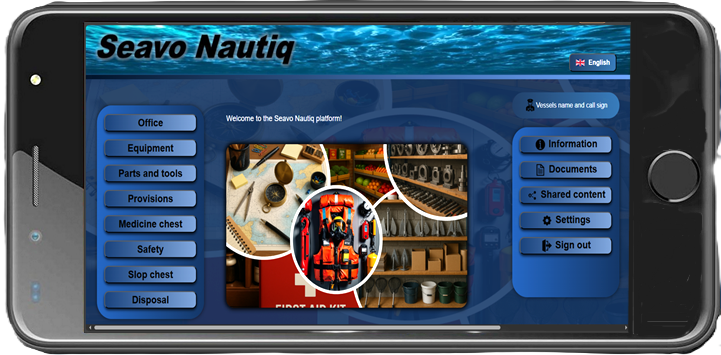
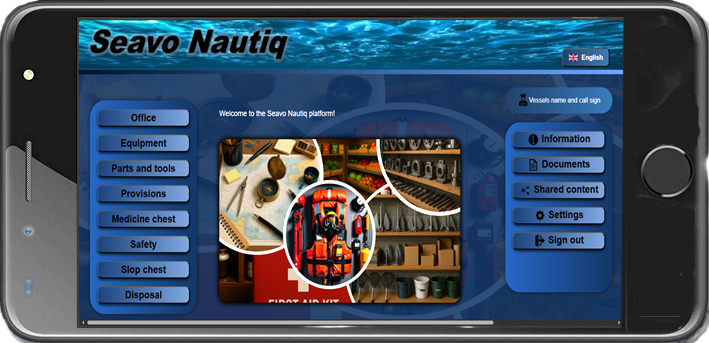
New file, Mobile

diff --git a/Front-index.html b/Front-index.html
@@ -38,6 +38,7 @@
       box-shadow: #000000 0px 0px 10px 3px;
     }
 
+
     #mobilpicture {
       width: 13%;
       height: auto;
@@ -48,18 +49,49 @@
       position: absolute;
     }
 
-    #infobubble {
-      width: 21%;
-      height: auto;
-      margin-top: 90px;
-      margin-left: 46px;
-      position: absolute;
-      
-    }
+    #mobilpicture:hover {
+      transform: scale(1.1);
+      transition: transform 0.3s ease;
+     
+  }
+
+
+
+   .infobubble-wrapper {
+     width: 15%;
+     position: absolute;
+     margin-top: -200px;
+     margin-left: 560px;
+ 
+   }
+
+  .infobubble-img {
+   width: 100%;
+   height:auto;
+   display: block;
+  }
+
+ .toggle-btn {
+  position: absolute;
+  bottom: 8px;
+  right: 6px;
+  background-color: rgba(0, 140, 255, 0.8);
+  color: rgb(255, 255, 255);
+  border: none;
+  padding: 5px 10px;
+  font-size: 14px;
+  border-radius: 8px;
+  cursor: pointer;
+}
+
+.toggle-btn:hover {
+  background-color: rgba(0, 89, 255, 1);
+}
+
 
   .forsidebilde2 {
      width: 100%;
-     height: 110%;
+     height: 100%;
      position: absolute;
      top: 0;
      left: 0;
@@ -155,7 +187,7 @@
       border-radius: 40px;
       box-shadow: 0 0 10px rgba(0, 0, 0, 0.6);
       padding: 20px;
-      margin-top: 30px;
+      margin-top: 5px;
     }
 
 
@@ -262,7 +294,8 @@
      
   </header>
 
-
+ <button> <img src="icon/go-online.png" alt="Info" style="width: 20px; background: #1c5cb4;"> Go online</button>
+</div>
 
   <div class="container-wrapper">
     <div class="venstre-container">
@@ -311,19 +344,24 @@
   <h1 style="color: rgb(255, 255, 255);">Welcome to Seavo Nautiq</h1>
 
   <img src="images/Animasjon.gif" alt="forsidebilde" id="forsidebilde">
-
   <img src="images/mobile.png" alt="mobilpicture" id="mobilpicture">
-  <img src="images/Infobubble.png" alt="infobubble" id="infobubble">
+ 
+  <div id="infobubble" class="infobubble-wrapper">
+    
+  <img src="images/Infobubble.png" alt="infobubble" class="infobubble-img">
+  <button onclick="toggleInfobubble()" id="infobubbleToggleBtn" class="toggle-btn">Hide</button>
+</div>
+
+
+  
+
   <img src="images/Picture_collection.png" class="forsidebilde2" alt="forsidebilde2">
   
   <audio id="sonar" src="Sound/Sonar.mp3" preload="auto"></audio>
 
 <div style="margin-top: 20px;">
   <button onclick="toggleSonar()" id="toggleButton" style="background: linear-gradient(#173c70, #8bb7e2);">🔈 ASDIC</button>
-
-  <label for="volumeSlider">🔊 Volume:</label>
-  <input type="range" id="volumeSlider" min="0" max="1" step="0.01" value="1">
-</div>
+ </div>
 
 
 
@@ -339,7 +377,7 @@
     
 <p>The platform allows you to register, track, and update equipment, provisions, tools, and safety items with ease.</p>
 <p>Users can quickly generate inventory reports, export them to PDF or Excel, and share them with other users or vessels when needed.</p>
-<p>Multiple user roles ensure structured access — for example, officers can manage full inventory control, while crew members can register consumption and updates by using the limited appversion, Seavo Nautiq mobile.</p>
+<p>Multiple user roles ensure structured access — for example, officers can manage full inventory control, while crew members can register consumption and updates by using the limited appversion Seavo Nautiq mobile.</p>
 
 <p style="margin-bottom: 50px;"></p>
 
@@ -381,15 +419,11 @@
   Settings </button>
     <button>  <img src="icon/Sign out.png" alt="Info" style="height: 32px; vertical-align: middle;">
   Sign out</button>
-   <button><img src="icon/go-online.png" alt="Info" style="height: 32px; vertical-align: middle;">
-  Go Online</button>
+
   <div>
 
-
     <div id="info-tekst" style="display: none; margin-top: 10px; color: rgb(0, 0, 0);">
-
-   
-    ◀
+    
   </div>
 </div>
 
@@ -415,22 +449,16 @@
       clearInterval(sonarInterval);
       toggleButton.textContent = "🔈 ASDIC";
     } else {
-      playSonar(); // første ping
-      sonarInterval = setInterval(playSonar, 10000); // deretter hvert 10. sekund
+      playSonar(); 
+      sonarInterval = setInterval(playSonar, 12000); // deretter hvert 12. sekund
       toggleButton.textContent = "⏸ ASDIC";
     }
     isPlaying = !isPlaying;
+ 
   }
 
-  
 
-  volumeSlider.addEventListener("input", () => {
-    sonar.volume = volumeSlider.value;
-  });
 </script>
-
-
-
 
 
     <script>
@@ -478,6 +506,23 @@ function endreBilde(bildefil) {
       document.getElementById('language-dropdown').style.display = 'none';
     }
   }
+
+  
+  function toggleInfobubble() {
+  const wrapper = document.getElementById("infobubble");
+  const button = document.getElementById("infobubbleToggleBtn");
+
+  const image = wrapper.querySelector(".infobubble-img");
+
+  if (image.style.display === "none") {
+    image.style.display = "block";
+    button.textContent = "Hide";
+  } else {
+    image.style.display = "none";
+    button.textContent = "Show";
+  }
+}
+
   
 
   </script>

diff --git a/Mobile.html b/Mobile.html
@@ -1,0 +1,56 @@
+<!DOCTYPE html>
+<html lang="en">
+<head>
+  <meta charset="UTF-8">
+  <title>Mobile</title>
+  <style>
+    body {
+      background-color: #12315c;
+      font-family: Arial, sans-serif;
+      margin: 0;
+      color: rgb(255, 255, 255);
+    }
+
+     .logo {
+      width: 200px;
+      height: 40px;
+      margin: 0 auto;
+      margin-bottom: 0px;
+      display: block;
+      position: absolute;
+      border-radius: 6px;
+      box-shadow: 0 0 10px rgba(0, 0, 0, 0.6);
+      margin-top: -30px;
+      margin-left: 20px;
+    }
+    
+    .mobile {
+      width: 20%;
+      height: auto;
+      display: block;
+      margin: 0 auto;
+      margin-top: 20px;
+      border-radius: 6px;
+      box-shadow: 0 0 10px rgba(0, 0, 0, 0.6);
+    }
+
+
+  </style>       
+    </body>
+    <header>
+
+    <img src="images/Seavo nautiq logo.png" alt="logo" class="logo">
+
+    <h1 style="text-align: center; color:
+   rgb(218, 215, 215);
+    margin-top: 70px;
+    font-size: 36px;
+    font-weight: bold;
+    text-shadow: 0 1px 3px rgba(0, 0, 0, 0.6);">
+    Mobile</h1>
+    
+ 
+</head>
+  <img src="images/mobile.png" alt="mobile" class="mobile"> 
+
+</html>
